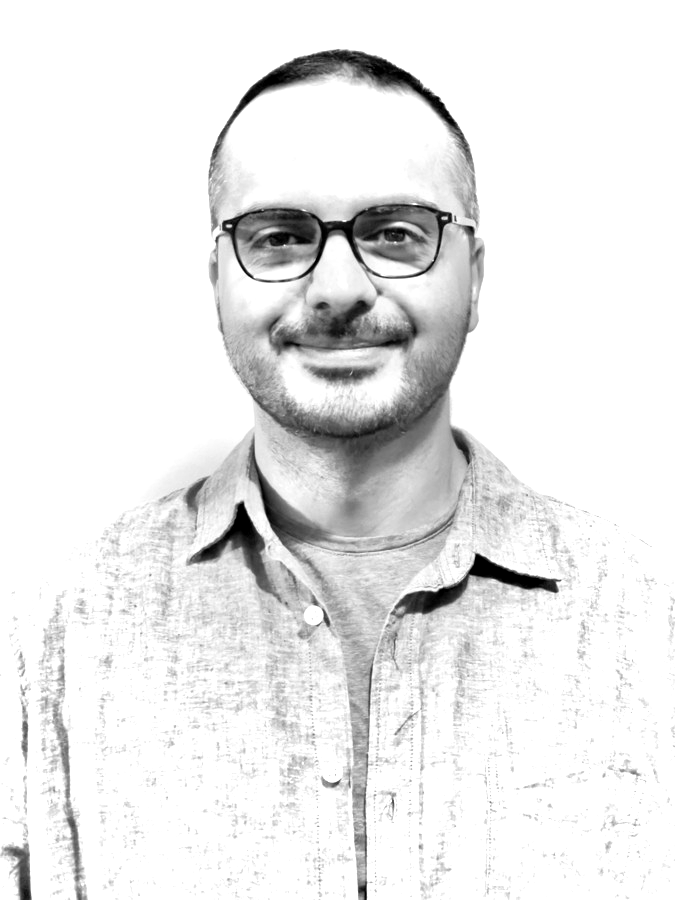
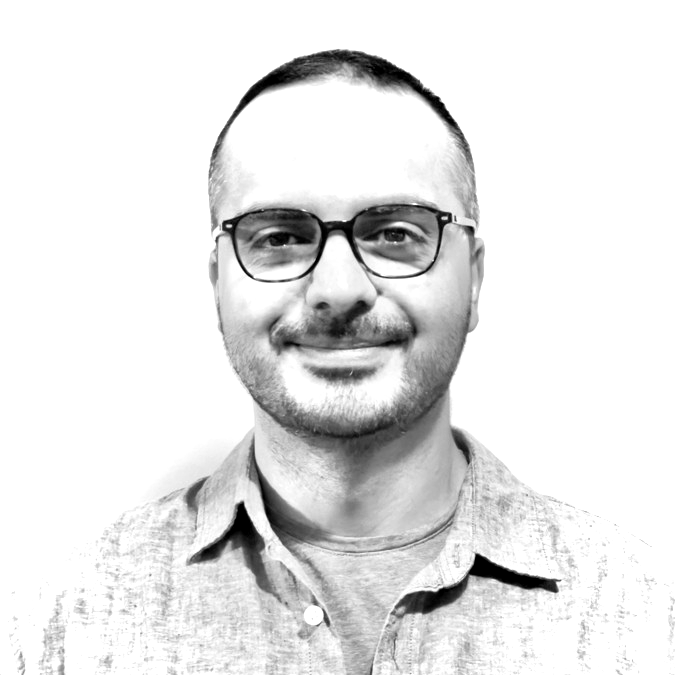
Fixed images

diff --git a/src/components/TeamView.tsx b/src/components/TeamView.tsx
@@ -1,7 +1,7 @@
 import Image from 'next/image';
 import styles from '../assets/styles/team.module.css';
-import AliPhoto from '../../public/img/team/Ali-B&W.jpg';
-import ArminPhoto from '../../public/img/team/Armin-B&W.jpg';
+import AliPhoto from '../../public/img/team/Ali-B&W.png';
+import ArminPhoto from '../../public/img/team/Armin-B&W.png';
 import FooterView, { SocialMediumInformation } from './Footer';
 import { TeamSocialLinks } from './SocialButtons';
 
